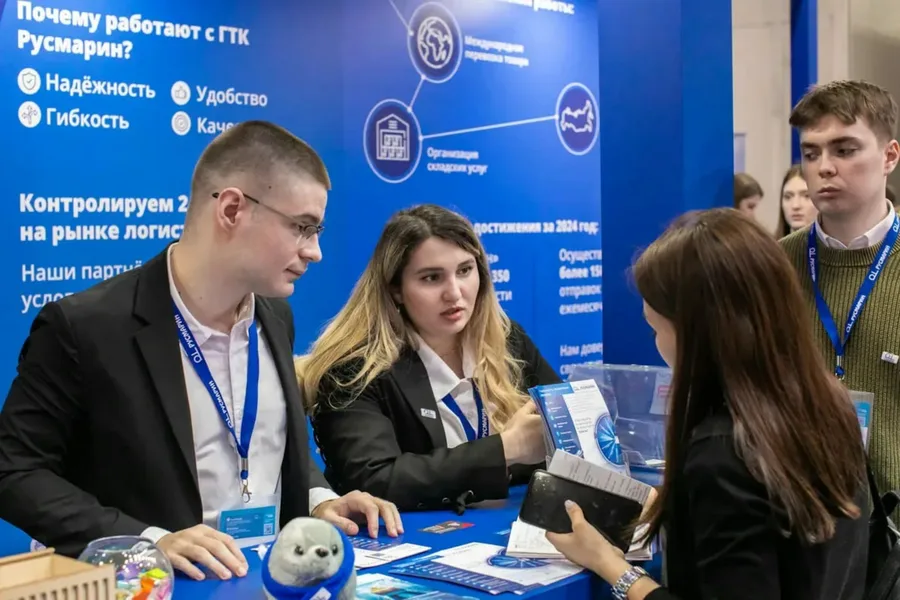
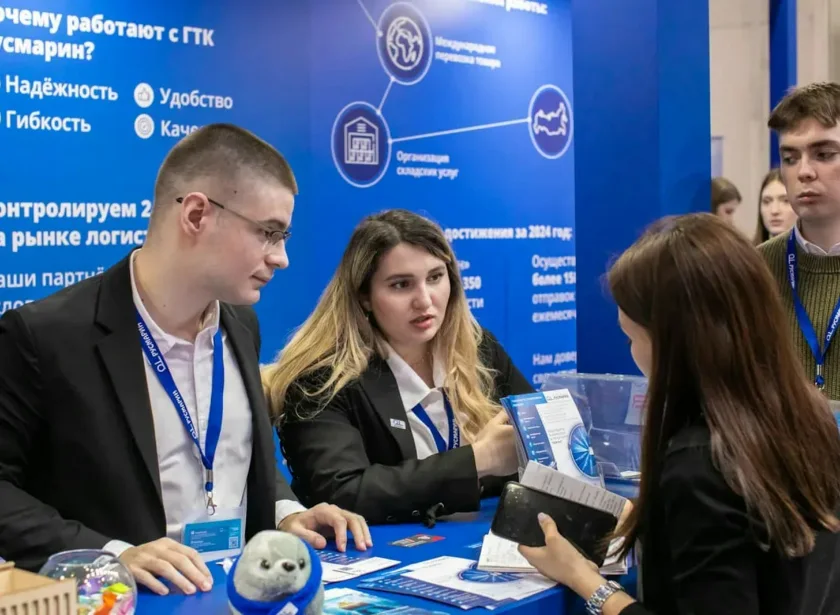
Проба: сетка вместо обрезанной ленты, всё в авто-лейауте
Раскладка переделана: шесть карточек видны целиком, 3 в ряд, на 980
две, на телефоне одна. Оформление карточки осталось снятым с оригинала.

Чтобы импортёр перевёл блок в авто-лейаут, убраны фиксированные размеры,
aspect-ratio и абсолютное позиционирование картинки. Фотографии заранее
обрезаны под пропорцию кадра 396×290, поэтому высоту задавать не нужно.

diff --git a/proba/video/index.html b/proba/video/index.html
@@ -9,22 +9,27 @@
 <link rel="stylesheet" href="https://api.fontshare.com/v2/css?f[]=clash-grotesk@400,500,600,700&display=swap">
 <style>
 /* ==========================================================================
-   Экран «Вот что вы получите» — повтор исходного блока под перенос в Tilda.
+   Экран «Вот что вы получите» — под перенос в Tilda Zero Block.
 
-   Все размеры сняты с живой страницы, не на глаз:
-     секция      padding 72/32, ширина 1180, gap 36
-     заголовок   48 / 700, межстрочное 48, трекинг −2.4
-     лента       flex, gap 18, горизонтальная прокрутка
-     карточка    420 ширина, фон #141617, радиус 10, padding 12, gap 18
-     кадр        396×290, радиус 6, object-fit cover
-     play        44×44, круг #B6F66B, значок 18×18 чёрный, 16 от края
-     подпись     строка, padding 0 4 4, прижата по нижнему краю
-     название    17 / 600, межстрочное 18.7, #F3F4F0
-     мета        13 / 500, межстрочное 13, #868B87
+   ОФОРМЛЕНИЕ карточки повторяет оригинал, числа сняты с живой страницы:
+     карточка  фон #141617, радиус 10, padding 12, внутренний отступ 18
+     кадр      пропорция 396×290, радиус 6
+     play      44×44, круг #B6F66B, значок 18×18 чёрный, 16 от края
+     подпись   строка, padding 0 4 4, прижата по нижнему краю
+     название  17 / 600, межстрочное 18.7, #F3F4F0
+     мета      13 / 500, межстрочное 13, #868B87
+     заголовок 48 / 700, межстрочное 48, трекинг −2.4
+     секция    1180, padding 72/32, отступ до карточек 36
 
-   Исходник на узких ширинах не адаптирован: карточка остаётся 420, заголовок
-   48, и на телефоне блок уезжает за экран. Ниже 640 сделано по-человечески —
-   это единственное отступление от оригинала.
+   РАСКЛАДКА сделана иначе. В оригинале это лента с прокруткой, и третья
+   карточка срезана краем — это и есть то, что чиним. Здесь сетка: шесть
+   карточек видны целиком, 3 в ряд, на планшете 2, на телефоне 1.
+
+   Всё собрано так, чтобы импортёр перевёл это в авто-лейаут:
+   нигде нет фиксированных размеров, aspect-ratio и абсолютного
+   позиционирования, кроме одной кнопки play поверх кадра. Фотографии
+   заранее обрезаны под пропорцию кадра, поэтому высоту задавать не надо —
+   кадр тянется по картинке, а картинка по ширине карточки.
    ========================================================================== */
 
 :root{
@@ -41,50 +46,54 @@ body{margin:0;background:var(--bg);color:var(--text);font-family:var(--font);
   -webkit-font-smoothing:antialiased;}
 
 .section{max-width:1180px;margin:0 auto;padding:72px 32px;
-  display:flex;flex-direction:column;align-items:flex-start;gap:36px;}
+  display:flex;flex-direction:column;align-items:stretch;gap:36px;}
 
 .section__title{margin:0;font-size:48px;line-height:48px;font-weight:700;
   letter-spacing:-2.4px;color:var(--text);}
 
-/* Лента: в исходнике это горизонтальная прокрутка, третья карточка
-   намеренно выглядывает за край. Прокрутку оставляю, добавляю только
-   прилипание к карточке и прячу полосу — вида это не меняет. */
-.strip{display:flex;gap:18px;width:100%;overflow-x:auto;overflow-y:hidden;
-  scroll-snap-type:x mandatory;scrollbar-width:none;-ms-overflow-style:none;}
-.strip::-webkit-scrollbar{display:none;}
+/* minmax(0,1fr) обязателен: иначе колонка не может стать уже своего
+   содержимого, и на планшете сетка выталкивает страницу вбок. */
+.grid{display:grid;grid-template-columns:repeat(3,minmax(0,1fr));gap:18px;}
 
-.card{flex:0 0 420px;width:420px;background:var(--card);border-radius:10px;
-  padding:12px;display:flex;flex-direction:column;gap:18px;
-  border:0;margin:0;text-align:left;color:inherit;font:inherit;cursor:pointer;
-  scroll-snap-align:start;}
+.card{min-width:0;background:var(--card);border-radius:10px;padding:12px;
+  display:flex;flex-direction:column;gap:18px;
+  border:0;margin:0;text-align:left;color:inherit;font:inherit;cursor:pointer;}
 
-.card__frame{position:relative;width:100%;aspect-ratio:396/290;
-  border-radius:6px;overflow:hidden;background:#0B0C0D;}
-.card__frame img{position:absolute;inset:0;width:100%;height:100%;
-  object-fit:cover;display:block;}
+/* Кадр без заданной высоты: картинка уже обрезана под нужную пропорцию,
+   поэтому высота берётся от неё и всё тянется само. */
+.card__frame{position:relative;width:100%;border-radius:6px;overflow:hidden;
+  background:#0B0C0D;line-height:0;}
+.card__frame img{display:block;width:100%;height:auto;}
 
 .card__play{position:absolute;left:16px;bottom:16px;width:44px;height:44px;
   border-radius:100px;background:var(--accent);display:flex;
   align-items:center;justify-content:center;}
 
-.card__row{display:flex;align-items:flex-end;justify-content:space-between;
-  gap:12px;padding:0 4px 4px;}
-/* Название в одну строку: в исходнике оно занимает ровно 228 и не переносится,
-   перенос добавлял карточке лишние 18 px высоты. */
+/* В оригинале название и мета стоят в строку, но там карточка 420 в ленте.
+   В сетке по три карточка 360, и в строку они не помещаются ни при каком
+   кегле. Ставлю друг под друга — иначе мета переносится вразнобой. */
+.card__row{display:flex;flex-direction:column;align-items:flex-start;
+  gap:6px;padding:0 4px 4px;}
 .card__name{font-size:17px;line-height:18.7px;font-weight:600;color:var(--text);
-  white-space:nowrap;}
+  min-width:0;}
 .card__meta{font-size:13px;line-height:13px;font-weight:500;color:var(--muted);
   white-space:nowrap;}
 
-/* Узкие ширины — отступление от исходника, см. комментарий выше.
-   Карточка сжимается по экрану, следующая выглядывает краем. */
+/* Планшет */
+/* Переход на две колонки делаю до 980, а не после: Tilda снимает макет
+   ровно на 980, и три карточки по 293 там были бы мелковаты для видео. */
+@media (max-width:1023px){
+  .section{padding:64px 28px;gap:28px;}
+  .section__title{font-size:40px;line-height:40px;letter-spacing:-1.8px;}
+  .grid{grid-template-columns:repeat(2,minmax(0,1fr));}
+}
+
+/* Телефон. В оригинале этот блок не адаптирован вовсе: карточка остаётся
+   420 и уезжает за экран. Здесь одна в ряд, подпись в две строки. */
 @media (max-width:639px){
-  .section{padding:56px 20px;gap:28px;}
+  .section{padding:56px 20px;gap:24px;}
   .section__title{font-size:34px;line-height:34px;letter-spacing:-1.4px;}
-  .strip{gap:12px;}
-  .card{flex:0 0 82vw;width:82vw;}
-  /* Название и мета в строку на телефоне не помещаются — ставлю друг под друга */
-  .card__row{flex-direction:column;align-items:flex-start;gap:6px;}
+  .grid{grid-template-columns:minmax(0,1fr);gap:14px;}
 }
 
 @media (max-width:479px){
@@ -97,11 +106,11 @@ body{margin:0;background:var(--bg);color:var(--text);font-family:var(--font);
 <section class="section">
   <h2 class="section__title">Вот что вы получите</h2>
 
-  <div class="strip">
+  <div class="grid">
 
     <button class="card" type="button">
       <span class="card__frame">
-        <img src="img/shot-prom.webp" alt="Кадр из ролика: производитель оборудования" loading="lazy">
+        <img src="img/shot-prom.webp" alt="Кадр из ролика: производитель оборудования" width="840" height="615" loading="lazy">
         <span class="card__play"><svg width="18" height="18" viewBox="0 0 18 18" fill="none" aria-hidden="true"><path d="M15.5 8.13397C16.1667 8.51887 16.1667 9.48113 15.5 9.86603L5.75 15.5C5.08333 15.8849 4.25 15.4037 4.25 14.634V3.36603C4.25 2.59623 5.08333 2.11511 5.75 2.50001L15.5 8.13397Z" fill="#000"/></svg></span>
       </span>
       <span class="card__row">
@@ -112,7 +121,7 @@ body{margin:0;background:var(--bg);color:var(--text);font-family:var(--font);
 
     <button class="card" type="button">
       <span class="card__frame">
-        <img src="img/shot-prom.webp" alt="Кадр из ролика: производитель оборудования" loading="lazy">
+        <img src="img/shot-prom.webp" alt="Кадр из ролика: производитель оборудования" width="840" height="615" loading="lazy">
         <span class="card__play"><svg width="18" height="18" viewBox="0 0 18 18" fill="none" aria-hidden="true"><path d="M15.5 8.13397C16.1667 8.51887 16.1667 9.48113 15.5 9.86603L5.75 15.5C5.08333 15.8849 4.25 15.4037 4.25 14.634V3.36603C4.25 2.59623 5.08333 2.11511 5.75 2.50001L15.5 8.13397Z" fill="#000"/></svg></span>
       </span>
       <span class="card__row">
@@ -123,7 +132,7 @@ body{margin:0;background:var(--bg);color:var(--text);font-family:var(--font);
 
     <button class="card" type="button">
       <span class="card__frame">
-        <img src="img/shot-prom.webp" alt="Кадр из ролика: производитель оборудования" loading="lazy">
+        <img src="img/shot-prom.webp" alt="Кадр из ролика: производитель оборудования" width="840" height="615" loading="lazy">
         <span class="card__play"><svg width="18" height="18" viewBox="0 0 18 18" fill="none" aria-hidden="true"><path d="M15.5 8.13397C16.1667 8.51887 16.1667 9.48113 15.5 9.86603L5.75 15.5C5.08333 15.8849 4.25 15.4037 4.25 14.634V3.36603C4.25 2.59623 5.08333 2.11511 5.75 2.50001L15.5 8.13397Z" fill="#000"/></svg></span>
       </span>
       <span class="card__row">
@@ -134,7 +143,7 @@ body{margin:0;background:var(--bg);color:var(--text);font-family:var(--font);
 
     <button class="card" type="button">
       <span class="card__frame">
-        <img src="img/shot-farma.webp" alt="Кадр из ролика: фармацевтическая компания" loading="lazy">
+        <img src="img/shot-farma.webp" alt="Кадр из ролика: фармацевтическая компания" width="840" height="615" loading="lazy">
         <span class="card__play"><svg width="18" height="18" viewBox="0 0 18 18" fill="none" aria-hidden="true"><path d="M15.5 8.13397C16.1667 8.51887 16.1667 9.48113 15.5 9.86603L5.75 15.5C5.08333 15.8849 4.25 15.4037 4.25 14.634V3.36603C4.25 2.59623 5.08333 2.11511 5.75 2.50001L15.5 8.13397Z" fill="#000"/></svg></span>
       </span>
       <span class="card__row">
@@ -145,7 +154,7 @@ body{margin:0;background:var(--bg);color:var(--text);font-family:var(--font);
 
     <button class="card" type="button">
       <span class="card__frame">
-        <img src="img/shot-farma.webp" alt="Кадр из ролика: фармацевтическая компания" loading="lazy">
+        <img src="img/shot-farma.webp" alt="Кадр из ролика: фармацевтическая компания" width="840" height="615" loading="lazy">
         <span class="card__play"><svg width="18" height="18" viewBox="0 0 18 18" fill="none" aria-hidden="true"><path d="M15.5 8.13397C16.1667 8.51887 16.1667 9.48113 15.5 9.86603L5.75 15.5C5.08333 15.8849 4.25 15.4037 4.25 14.634V3.36603C4.25 2.59623 5.08333 2.11511 5.75 2.50001L15.5 8.13397Z" fill="#000"/></svg></span>
       </span>
       <span class="card__row">
@@ -156,7 +165,7 @@ body{margin:0;background:var(--bg);color:var(--text);font-family:var(--font);
 
     <button class="card" type="button">
       <span class="card__frame">
-        <img src="img/shot-farma.webp" alt="Кадр из ролика: фармацевтическая компания" loading="lazy">
+        <img src="img/shot-farma.webp" alt="Кадр из ролика: фармацевтическая компания" width="840" height="615" loading="lazy">
         <span class="card__play"><svg width="18" height="18" viewBox="0 0 18 18" fill="none" aria-hidden="true"><path d="M15.5 8.13397C16.1667 8.51887 16.1667 9.48113 15.5 9.86603L5.75 15.5C5.08333 15.8849 4.25 15.4037 4.25 14.634V3.36603C4.25 2.59623 5.08333 2.11511 5.75 2.50001L15.5 8.13397Z" fill="#000"/></svg></span>
       </span>
       <span class="card__row">
